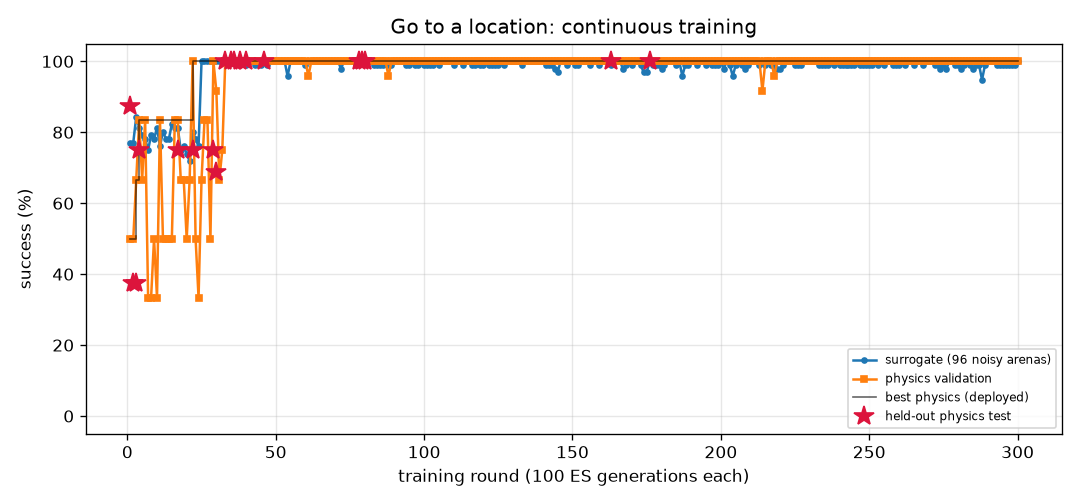
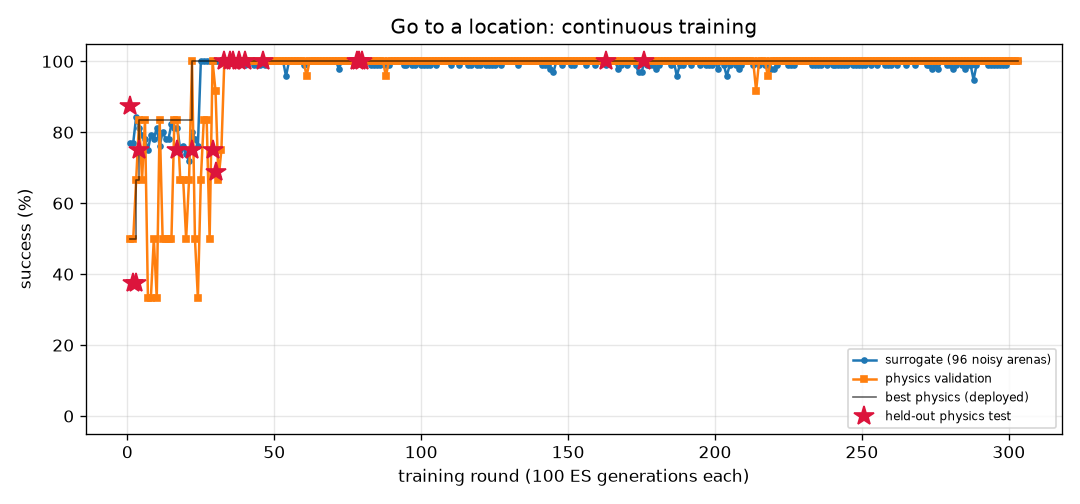
FlyLab: continuous training progress
- walk_forward: optimal, physics val 100% of 24, round 393
- turn: optimal, physics val 100% of 24, round 1062
- goto: optimal, physics val 100% of 24, round 303
- odor_seek: optimal, physics val 100% of 24, round 243
- odor_avoid: optimal, physics val 100% of 24, round 933
- light_seek: optimal, physics val 100% of 24, round 505
- light_avoid: optimal, physics val 100% of 24, round 658

diff --git a/projects/09_flylab/training/walk_forward/REPORT.md b/projects/09_flylab/training/walk_forward/REPORT.md
@@ -1,14 +1,14 @@
 # Walk forward (`walk_forward`) — training report
 
-*Auto-generated by `train_brains.py`, last updated 2026-11-15T14:35:04.*
+*Auto-generated by `train_brains.py`, last updated 2026-11-15T18:53:21.*
 
 ![curve](curve.png)
 
 | | |
 |---|---|
-| rounds | 388 |
-| ES generations | 38800 |
-| physics runs | 9326 |
+| rounds | 393 |
+| ES generations | 39300 |
+| physics runs | 9446 |
 | status | **optimal** |
 | best brain | round 116: physics validation **100%** on 24 arenas, surrogate 100% |
 | held-out physics test | **100%** on 32 unseen arenas (95% CI 89%-100%) (errors: [0.13, 0.16, 0.19, 0.16, 0.15, 0.2, 0.17, 0.18, 0.17, 0.19, 0.2, 0.14, 0.17, 0.19, 0.2, 0.2, 0.13, 0.19, 0.16, 0.2, 0.2, 0.16, 0.17, 0.2, 0.13, 0.15, 0.18, 0.14, 0.16, 0.15, 0.19, 0.12]) |
@@ -17,11 +17,6 @@ Physics error per arena: mm from target at the end (< 1.5 and standing still = s
 
 | round | level | gens | sigma | surrogate | physics val | val errors | test | note |
 |---:|---:|---:|---:|---:|---:|---|---:|---|
-| 349 | 3 | 34900 | 0.024 | 100% | 92% | [0.18, 0.12, 0.08, 0.18, 0.14, 0.06, 0.12, 0.16, 0.12, 0.15, 0.06, 0.17, 0.03, 0.06, 0.05, 0.09, 0.19, 0.08, 0.19, 0.05, 0.16, 0.15, 0.13, 0.06] |  |  |
-| 350 | 3 | 35000 | 0.024 | 100% | 96% | [0.1, 0.17, 0.36, 0.1, 0.17, 0.38, 0.18, 0.04, 0.17, 0.19, 0.05, 0.19, 0.06, 0.53, 0.12, 0.2, 0.03, 0.15, 0.06, 0.13, 0.29, 0.19, 0.19, 0.05] |  |  |
-| 351 | 3 | 35100 | 0.024 | 100% | 96% | [0.07, 0.24, 0.24, 0.06, 0.24, 0.05, 0.25, 0.04, 0.24, 0.27, 0.14, 0.27, 0.1, 0.13, 0.05, 0.26, 0.1, 0.23, 0.08, 0.11, 0.09, 0.27, 0.17, 0.1] |  |  |
-| 352 | 3 | 35200 | 0.024 | 100% | 92% | [0.15, 0.2, 0.05, 0.15, 0.2, 0.05, 0.21, 0.07, 0.21, 0.23, 0.05, 0.22, 0.07, 0.08, 0.16, 0.22, 0.07, 0.2, 0.17, 0.17, 0.08, 0.23, 0.21, 0.28] |  | restart from best |
-| 353 | 3 | 35300 | 0.024 | 100% | 100% | [0.2, 0.26, 0.15, 0.2, 0.26, 0.02, 0.25, 0.17, 0.26, 0.26, 0.03, 0.24, 0.17, 0.14, 0.22, 0.25, 0.19, 0.25, 0.17, 0.23, 0.18, 0.25, 0.24, 0.17] |  |  |
 | 354 | 3 | 35400 | 0.024 | 100% | 100% | [0.22, 0.24, 0.17, 0.21, 0.24, 0.17, 0.24, 0.18, 0.24, 0.25, 0.16, 0.24, 0.18, 0.17, 0.22, 0.25, 0.21, 0.23, 0.19, 0.22, 0.19, 0.25, 0.24, 0.19] |  |  |
 | 355 | 3 | 35500 | 0.024 | 100% | 100% | [0.34, 0.33, 0.35, 0.34, 0.33, 0.34, 0.32, 0.34, 0.33, 0.32, 0.33, 0.31, 0.35, 0.34, 0.34, 0.31, 0.34, 0.33, 0.34, 0.34, 0.34, 0.32, 0.31, 0.35] |  |  |
 | 356 | 3 | 35600 | 0.024 | 100% | 100% | [0.25, 0.26, 0.21, 0.25, 0.26, 0.21, 0.26, 0.22, 0.27, 0.25, 0.2, 0.24, 0.22, 0.21, 0.27, 0.24, 0.24, 0.27, 0.23, 0.26, 0.23, 0.25, 0.24, 0.22] |  | restart from best |
@@ -57,3 +52,8 @@ Physics error per arena: mm from target at the end (< 1.5 and standing still = s
 | 386 | 3 | 38600 | 0.024 | 100% | 100% | [0.11, 0.2, 0.12, 0.11, 0.2, 0.14, 0.21, 0.12, 0.2, 0.25, 0.15, 0.25, 0.12, 0.14, 0.12, 0.25, 0.11, 0.17, 0.12, 0.14, 0.11, 0.26, 0.25, 0.11] |  |  |
 | 387 | 3 | 38700 | 0.024 | 100% | 92% | [0.07, 0.1, 0.05, 0.06, 0.09, 0.06, 0.5, 0.05, 0.09, 0.06, 0.05, 0.08, 0.05, 0.06, 0.06, 0.06, 3.55, 0.07, 0.06, 0.07, 0.06, 0.07, 0.07, 0.05] |  |  |
 | 388 | 3 | 38800 | 0.024 | 100% | 96% | [0.21, 0.19, 0.16, 0.06, 0.18, 0.18, 0.21, 0.16, 0.2, 0.26, 0.17, 0.25, 0.16, 0.17, 0.1, 0.26, 0.02, 0.14, 0.15, 0.1, 0.14, 0.27, 0.25, 0.17] |  | restart from best |
+| 389 | 3 | 38900 | 0.024 | 100% | 100% | [0.3, 0.37, 0.26, 0.3, 0.36, 0.27, 0.35, 0.26, 0.37, 0.39, 0.27, 0.4, 0.26, 0.27, 0.32, 0.4, 0.28, 0.37, 0.27, 0.34, 0.27, 0.4, 0.39, 0.26] |  |  |
+| 390 | 3 | 39000 | 0.024 | 98% | 100% | [0.16, 0.14, 0.24, 0.09, 0.13, 0.23, 0.19, 0.05, 0.14, 0.17, 0.04, 0.2, 0.23, 0.22, 0.09, 0.22, 0.1, 0.1, 0.05, 0.09, 0.09, 0.18, 0.19, 0.19] |  |  |
+| 391 | 3 | 39100 | 0.025 | 100% | 100% | [0.36, 0.34, 0.33, 0.36, 0.34, 0.34, 0.34, 0.35, 0.34, 0.29, 0.33, 0.18, 0.35, 0.34, 0.35, 0.12, 0.35, 0.34, 0.36, 0.35, 0.36, 0.28, 0.07, 0.35] |  |  |
+| 392 | 3 | 39200 | 0.024 | 100% | 100% | [0.24, 0.17, 0.22, 0.24, 0.16, 0.1, 0.15, 0.17, 0.15, 0.17, 0.11, 0.32, 0.21, 0.15, 0.22, 0.29, 0.22, 0.16, 0.18, 0.2, 0.15, 0.17, 0.31, 0.2] |  | restart from best |
+| 393 | 3 | 39300 | 0.024 | 100% | 92% | [0.26, 0.06, 0.29, 0.26, 0.05, 0.35, 0.05, 0.09, 0.06, 0.08, 0.21, 0.18, 0.23, 0.3, 0.05, 0.18, 0.25, 0.04, 0.07, 0.06, 0.08, 0.09, 0.26, 0.17] |  |  |

diff --git a/projects/09_flylab/training/goto/REPORT.md b/projects/09_flylab/training/goto/REPORT.md
@@ -1,14 +1,14 @@
 # Go to a location (`goto`) — training report
 
-*Auto-generated by `train_brains.py`, last updated 2026-11-15T15:35:49.*
+*Auto-generated by `train_brains.py`, last updated 2026-11-15T18:53:58.*
 
 ![curve](curve.png)
 
 | | |
 |---|---|
-| rounds | 300 |
-| ES generations | 30000 |
-| physics runs | 7150 |
+| rounds | 303 |
+| ES generations | 30300 |
+| physics runs | 7222 |
 | status | **optimal** |
 | best brain | round 176: physics validation **100%** on 24 arenas, surrogate 100% |
 | held-out physics test | **100%** on 32 unseen arenas (95% CI 89%-100%) (errors: [0.2, 0.32, 0.19, 0.24, 0.18, 0.2, 0.19, 0.17, 0.22, 0.23, 0.23, 0.26, 0.2, 0.19, 0.24, 0.23, 0.22, 0.24, 0.2, 0.22, 0.2, 0.2, 0.26, 0.19, 0.22, 0.18, 0.26, 0.22, 0.2, 0.26, 0.23, 0.23]) |
@@ -17,9 +17,6 @@ Physics error per arena: mm from target at the end (< 1.5 and standing still = s
 
 | round | level | gens | sigma | surrogate | physics val | val errors | test | note |
 |---:|---:|---:|---:|---:|---:|---|---:|---|
-| 261 | 3 | 26100 | 0.024 | 100% | 100% | [0.56, 0.54, 0.59, 0.51, 0.41, 0.48, 0.56, 0.54, 0.55, 0.46, 0.43, 0.49, 0.56, 0.45, 0.54, 0.51, 0.6, 0.47, 0.42, 0.55, 0.48, 0.47, 0.6, 0.5] |  |  |
-| 262 | 3 | 26200 | 0.024 | 99% | 100% | [0.43, 0.4, 0.37, 0.27, 0.3, 0.26, 0.41, 0.29, 0.39, 0.27, 0.27, 0.27, 0.37, 0.27, 0.35, 0.34, 0.4, 0.24, 0.26, 0.34, 0.31, 0.27, 0.37, 0.29] |  |  |
-| 263 | 3 | 26300 | 0.025 | 100% | 100% | [0.62, 0.56, 0.43, 0.53, 0.43, 0.5, 0.59, 0.59, 0.6, 0.46, 0.45, 0.51, 0.6, 0.46, 0.51, 0.52, 0.61, 0.52, 0.44, 0.55, 0.5, 0.45, 0.61, 0.5] |  |  |
 | 264 | 3 | 26400 | 0.024 | 100% | 100% | [0.56, 0.49, 0.49, 0.38, 0.37, 0.36, 0.52, 0.37, 0.42, 0.36, 0.33, 0.37, 0.47, 0.34, 0.43, 0.4, 0.49, 0.41, 0.36, 0.42, 0.38, 0.36, 0.45, 0.38] |  | restart from best |
 | 265 | 3 | 26500 | 0.024 | 99% | 100% | [0.27, 0.3, 0.21, 0.25, 0.27, 0.25, 0.29, 0.3, 0.31, 0.22, 0.21, 0.23, 0.31, 0.25, 0.24, 0.31, 0.28, 0.27, 0.22, 0.3, 0.31, 0.21, 0.28, 0.26] |  |  |
 | 266 | 3 | 26600 | 0.025 | 100% | 100% | [0.45, 0.41, 0.4, 0.34, 0.3, 0.33, 0.46, 0.32, 0.35, 0.32, 0.29, 0.32, 0.44, 0.3, 0.39, 0.36, 0.46, 0.33, 0.32, 0.4, 0.34, 0.33, 0.41, 0.36] |  |  |
@@ -57,3 +54,6 @@ Physics error per arena: mm from target at the end (< 1.5 and standing still = s
 | 298 | 3 | 29800 | 0.025 | 99% | 100% | [0.47, 0.43, 0.34, 0.4, 0.32, 0.35, 0.48, 0.41, 0.43, 0.36, 0.35, 0.4, 0.46, 0.33, 0.42, 0.41, 0.5, 0.37, 0.34, 0.45, 0.37, 0.36, 0.48, 0.38] |  |  |
 | 299 | 3 | 29900 | 0.025 | 99% | 100% | [0.55, 0.49, 0.38, 0.46, 0.4, 0.42, 0.56, 0.45, 0.51, 0.42, 0.39, 0.47, 0.53, 0.37, 0.49, 0.48, 0.58, 0.47, 0.41, 0.55, 0.43, 0.43, 0.54, 0.45] |  |  |
 | 300 | 3 | 30000 | 0.025 | 100% | 100% | [0.46, 0.46, 0.44, 0.37, 0.38, 0.33, 0.46, 0.38, 0.38, 0.37, 0.35, 0.38, 0.42, 0.35, 0.44, 0.45, 0.47, 0.35, 0.34, 0.44, 0.41, 0.37, 0.44, 0.34] |  | restart from best |
+| 301 | 3 | 30100 | 0.024 | 100% | 100% | [0.45, 0.47, 0.42, 0.47, 0.38, 0.44, 0.49, 0.46, 0.45, 0.41, 0.39, 0.46, 0.46, 0.41, 0.47, 0.45, 0.51, 0.42, 0.39, 0.47, 0.42, 0.47, 0.47, 0.47] |  |  |
+| 302 | 3 | 30200 | 0.024 | 100% | 100% | [0.53, 0.46, 0.4, 0.42, 0.38, 0.37, 0.54, 0.42, 0.45, 0.4, 0.37, 0.43, 0.49, 0.35, 0.47, 0.44, 0.55, 0.43, 0.38, 0.49, 0.42, 0.4, 0.51, 0.41] |  |  |
+| 303 | 3 | 30300 | 0.024 | 100% | 100% | [0.44, 0.44, 0.27, 0.32, 0.28, 0.29, 0.41, 0.35, 0.34, 0.3, 0.27, 0.33, 0.36, 0.3, 0.4, 0.38, 0.46, 0.32, 0.27, 0.36, 0.35, 0.32, 0.4, 0.3] |  |  |

diff --git a/projects/09_flylab/training/light_seek/REPORT.md b/projects/09_flylab/training/light_seek/REPORT.md
@@ -1,14 +1,14 @@
 # Walk toward light (`light_seek`) — training report
 
-*Auto-generated by `train_brains.py`, last updated 2026-11-15T17:42:34.*
+*Auto-generated by `train_brains.py`, last updated 2026-11-15T18:00:22.*
 
 ![curve](curve.png)
 
 | | |
 |---|---|
-| rounds | 504 |
-| ES generations | 50400 |
-| physics runs | 8976 |
+| rounds | 505 |
+| ES generations | 50500 |
+| physics runs | 9000 |
 | status | **optimal** |
 | best brain | round 375: physics validation **100%** on 24 arenas, surrogate 100% |
 | held-out physics test | **100%** on 32 unseen arenas (95% CI 89%-100%) (errors: [0.57, 0.54, 0.53, 0.57, 0.55, 0.56, 0.59, 0.56, 0.53, 0.56, 0.71, 0.56, 0.55, 0.54, 0.53, 0.54, 0.54, 0.55, 0.52, 0.65, 0.64, 0.7, 0.58, 0.57, 0.6, 0.62, 0.55, 0.88, 0.54, 0.52, 0.62, 0.57]) |
@@ -17,7 +17,6 @@ Physics error per arena: mm from target at the end (< 1.5 and standing still = s
 
 | round | level | gens | sigma | surrogate | physics val | val errors | test | note |
 |---:|---:|---:|---:|---:|---:|---|---:|---|
-| 465 | 3 | 46500 | 0.024 | 100% | 100% | [0.61, 0.47, 0.59, 0.46, 0.52, 0.52, 0.49, 0.47, 0.5, 0.59, 0.48, 0.51, 0.52, 0.47, 0.54, 0.51, 0.59, 0.82, 0.53, 0.46, 0.47, 0.46, 0.6, 0.53] |  |  |
 | 466 | 3 | 46600 | 0.024 | 100% | 96% | [0.55, 0.48, 0.49, 0.63, 0.49, 2.94, 0.6, 0.48, 0.49, 0.51, 0.54, 0.5, 0.56, 0.5, 0.57, 0.94, 0.55, 0.48, 0.49, 0.52, 0.87, 0.56, 0.52, 0.57] |  |  |
 | 467 | 3 | 46700 | 0.024 | 100% | 100% | [0.53, 0.53, 0.98, 0.47, 0.51, 0.56, 1.04, 0.54, 0.52, 0.59, 0.8, 0.51, 0.5, 0.56, 0.84, 0.56, 0.54, 0.84, 0.55, 0.88, 0.54, 1.15, 0.47, 0.52] |  | restart from best |
 | 468 | 3 | 46800 | 0.024 | 100% | 100% | [0.59, 0.58, 0.48, 0.49, 0.54, 0.45, 0.47, 0.52, 0.45, 0.52, 0.54, 0.54, 0.52, 0.49, 0.49, 0.57, 0.46, 0.54, 0.49, 0.63, 0.45, 0.59, 0.47, 0.49] |  |  |
@@ -57,3 +56,4 @@ Physics error per arena: mm from target at the end (< 1.5 and standing still = s
 | 502 | 3 | 50200 | 0.024 | 100% | 100% | [0.47, 0.52, 0.43, 1.19, 0.53, 0.53, 0.54, 0.43, 0.55, 0.53, 0.52, 0.45, 0.46, 0.57, 0.63, 0.98, 0.43, 1.14, 0.48, 0.43, 0.61, 0.48, 0.46, 0.99] |  |  |
 | 503 | 3 | 50300 | 0.024 | 100% | 100% | [0.49, 0.48, 0.58, 0.46, 0.59, 0.64, 0.5, 0.45, 0.48, 0.52, 0.67, 0.51, 0.45, 0.5, 0.52, 0.92, 0.49, 0.49, 0.49, 0.45, 0.52, 1.04, 0.46, 0.57] |  | restart from best |
 | 504 | 3 | 50400 | 0.024 | 100% | 100% | [0.56, 0.54, 0.54, 0.69, 0.54, 0.52, 0.53, 0.79, 0.76, 0.55, 0.54, 0.56, 0.53, 0.52, 0.73, 0.54, 0.53, 0.57, 0.57, 0.53, 0.52, 0.92, 0.54, 0.54] |  |  |
+| 505 | 3 | 50500 | 0.024 | 100% | 100% | [0.52, 0.54, 0.53, 0.62, 0.53, 0.52, 0.54, 0.52, 0.54, 0.52, 0.5, 0.54, 0.53, 0.52, 0.55, 0.55, 0.59, 0.52, 0.6, 0.52, 0.59, 0.51, 0.55, 0.54] |  |  |

diff --git a/projects/09_flylab/training/TRAINING.md b/projects/09_flylab/training/TRAINING.md
@@ -1,15 +1,15 @@
 # FlyLab brains — continuous training log
 
-*Auto-generated by `train_brains.py`, last updated 2026-11-15T17:47:11.*
+*Auto-generated by `train_brains.py`, last updated 2026-11-15T18:53:58.*
 
 Every skill has its own brain and its own training process: surrogate ES rounds, physics validation in MuJoCo, keep-the-best selection, and a held-out physics test that is never used for selection. See each skill's report for its full round-by-round history. Mastery is progressive: passing a level (100% physics validation, >=95% surrogate) doubles the validation and test arena sets; a brain is **optimal** once it holds up at level 3 (>=95% of 24 validation arenas) AND scores >=90% on the 32 held-out test arenas. Test columns show 95% Wilson confidence intervals.
 
 | skill | rounds | ES generations | physics runs | surrogate | physics val | **physics test** | status |
 |---|---:|---:|---:|---:|---:|---:|---|
-| [Walk forward](walk_forward/REPORT.md) | 388 | 38800 | 9326 | 100% | 100% of 24 | 100% of 32 (CI 89-100%) | **optimal** |
+| [Walk forward](walk_forward/REPORT.md) | 393 | 39300 | 9446 | 100% | 100% of 24 | 100% of 32 (CI 89-100%) | **optimal** |
 | [Turn in place](turn/REPORT.md) | 1062 | 106200 | 25734 | 100% | 100% of 24 | 97% of 32 (CI 84-99%) | **optimal** |
-| [Go to a location](goto/REPORT.md) | 300 | 30000 | 7150 | 100% | 100% of 24 | 100% of 32 (CI 89-100%) | **optimal** |
+| [Go to a location](goto/REPORT.md) | 303 | 30300 | 7222 | 100% | 100% of 24 | 100% of 32 (CI 89-100%) | **optimal** |
 | [Find food by smell](odor_seek/REPORT.md) | 243 | 24300 | 5326 | 100% | 100% of 24 | 100% of 32 (CI 89-100%) | **optimal** |
 | [Escape a bad smell](odor_avoid/REPORT.md) | 933 | 93300 | 19698 | 97% | 100% of 24 | 97% of 32 (CI 84-99%) | **optimal** |
-| [Walk toward light](light_seek/REPORT.md) | 504 | 50400 | 8976 | 100% | 100% of 24 | 100% of 32 (CI 89-100%) | **optimal** |
+| [Walk toward light](light_seek/REPORT.md) | 505 | 50500 | 9000 | 100% | 100% of 24 | 100% of 32 (CI 89-100%) | **optimal** |
 | [Hide from light](light_avoid/REPORT.md) | 658 | 65800 | 16064 | 100% | 100% of 24 | 100% of 32 (CI 89-100%) | **optimal** |
